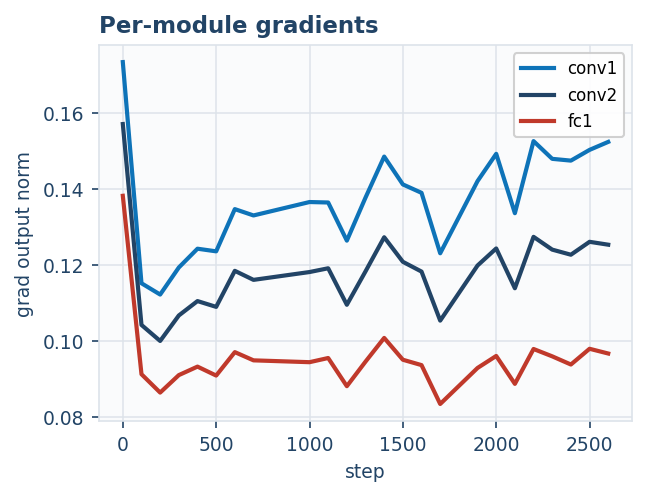
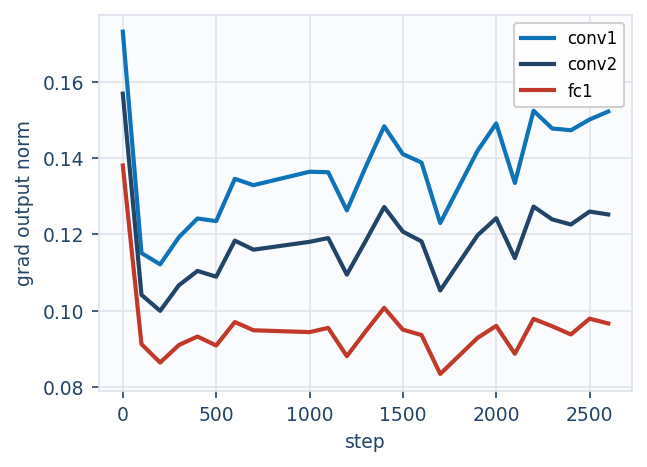
improving size

diff --git a/_includes/_snippets/doa-debugger.md b/_includes/_snippets/doa-debugger.md
@@ -112,7 +112,7 @@
     <div class="row" style="height: 100%">
         <div class="columns" style="width: 100%">
             <div class="column vertical-middle text-center" style="width: 100%">
-                <img class="external-svg" src="{{ site.url }}/assets/media/diagrams/doa-fault-localisation-pipeline.svg" alt="Fault localisation pipeline: MLflow monitoring artefacts feed sequential stage checks; first failure triggers graph traversal to a problematic node, then LLM repair with expandable context." style="max-width: auto; height: auto;">
+                <img class="external-svg" src="{{ site.url }}/assets/media/diagrams/doa-fault-localisation-pipeline.svg" alt="Fault localisation pipeline: MLflow monitoring artefacts feed sequential stage checks; first failure triggers graph traversal to a problematic node, then LLM repair with expandable context." style="width: 100%; height: auto; max-height: 720px;">
             </div>
         </div>
     </div>
@@ -121,23 +121,23 @@
 ## Data-Oriented Debugger
 
 <div class="rows" style="height: 100%">
-    <div class="row" style="height: 10%">
+    <div class="row" style="height: 8%">
         <div class="columns" style="width: 100%">
             <p style="text-align: left;"><b>Logged metrics</b> for a stable network.</p>
         </div>
     </div>
-    <div class="row" style="height: 90%">
+    <div class="row" style="height: 92%">
         <div class="columns" style="width: 100%">
-            <div class="column vertical-top text-center" style="width: 33%">
-                <img src="{{ site.url }}/assets/media/images/doa-metrics/stable_cnn-model.png" alt="stable_cnn model-level metrics: training loss and accuracy vs step." style="max-width: 100%; height: auto; max-height: 380px;">
+            <div class="column vertical-middle text-center" style="width: 33%">
+                <img src="{{ site.url }}/assets/media/images/doa-metrics/stable_cnn-model.png" alt="stable_cnn model-level metrics: training loss and accuracy vs step." style="width: 100%; height: auto; max-height: 500px;">
                 <p style="font-size: 0.8em; margin-top: 0.3em;"><b>Model-level</b> — loss and accuracy</p>
             </div>
-            <div class="column vertical-top text-center" style="width: 33%">
-                <img src="{{ site.url }}/assets/media/images/doa-metrics/stable_cnn-parameters.png" alt="stable_cnn parameter metrics: total L2 distance from initialisation and update size vs step." style="max-width: 100%; height: auto; max-height: 380px;">
+            <div class="column vertical-middle text-center" style="width: 33%">
+                <img src="{{ site.url }}/assets/media/images/doa-metrics/stable_cnn-parameters.png" alt="stable_cnn parameter metrics: total L2 distance from initialisation and update size vs step." style="width: 100%; height: auto; max-height: 500px;">
                 <p style="font-size: 0.8em; margin-top: 0.3em;"><b>Parameters</b> — distance and update size</p>
             </div>
-            <div class="column vertical-top text-center" style="width: 34%">
-                <img src="{{ site.url }}/assets/media/images/doa-metrics/stable_cnn-layers.png" alt="stable_cnn per-module gradient output norms for conv1, conv2, and fc1 vs step." style="max-width: 100%; height: auto; max-height: 380px;">
+            <div class="column vertical-middle text-center" style="width: 34%">
+                <img src="{{ site.url }}/assets/media/images/doa-metrics/stable_cnn-layers.png" alt="stable_cnn per-module gradient output norms for conv1, conv2, and fc1 vs step." style="width: 100%; height: auto; max-height: 500px;">
                 <p style="font-size: 0.8em; margin-top: 0.3em;"><b>Per-module</b> — gradient output norm</p>
             </div>
         </div>
